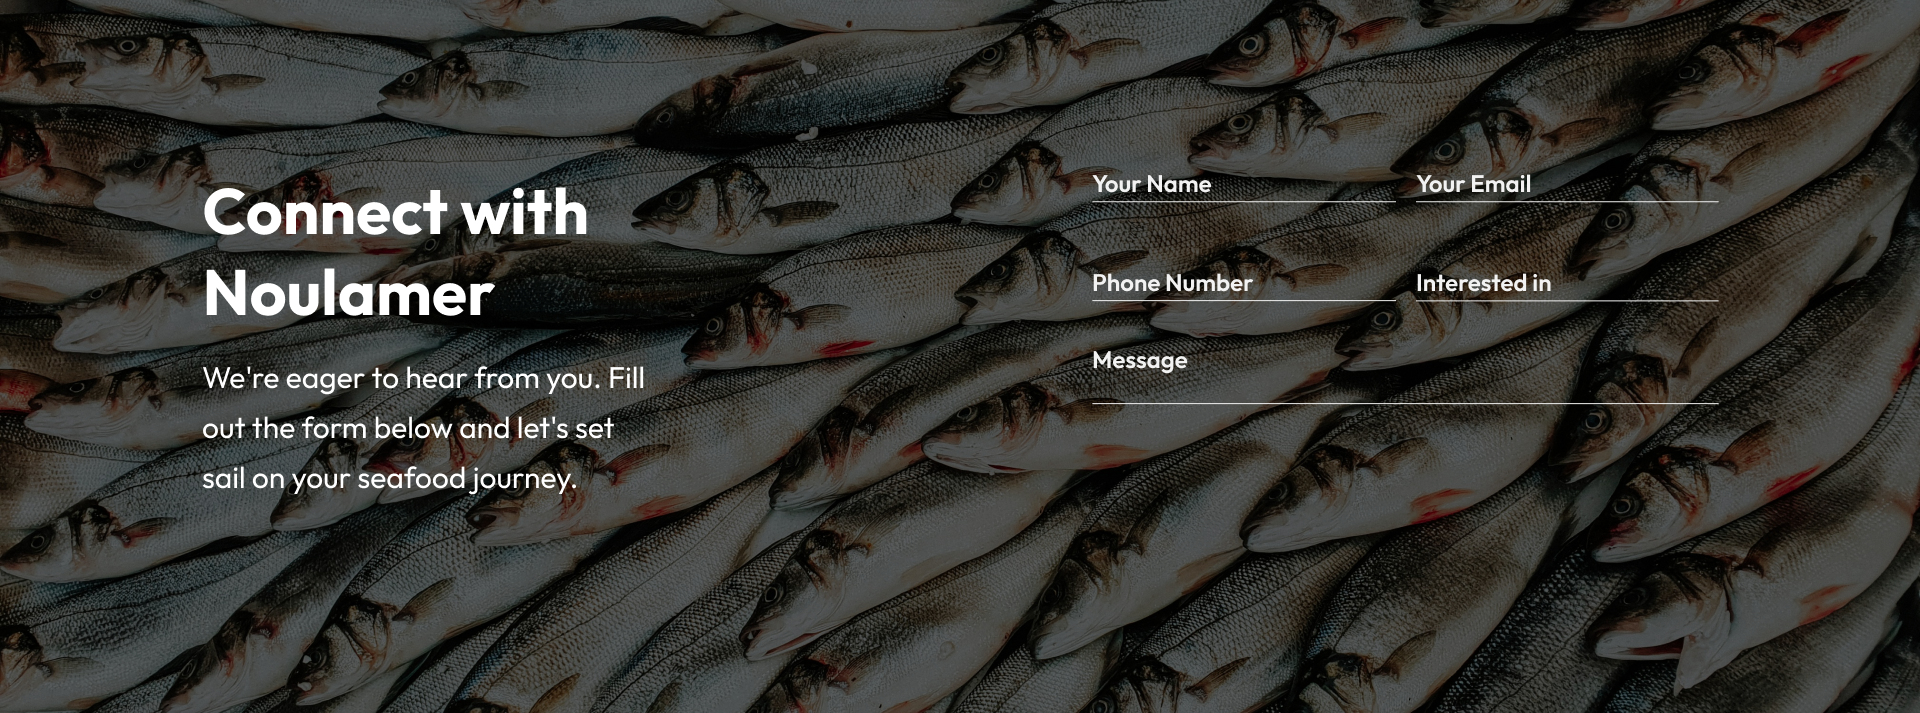
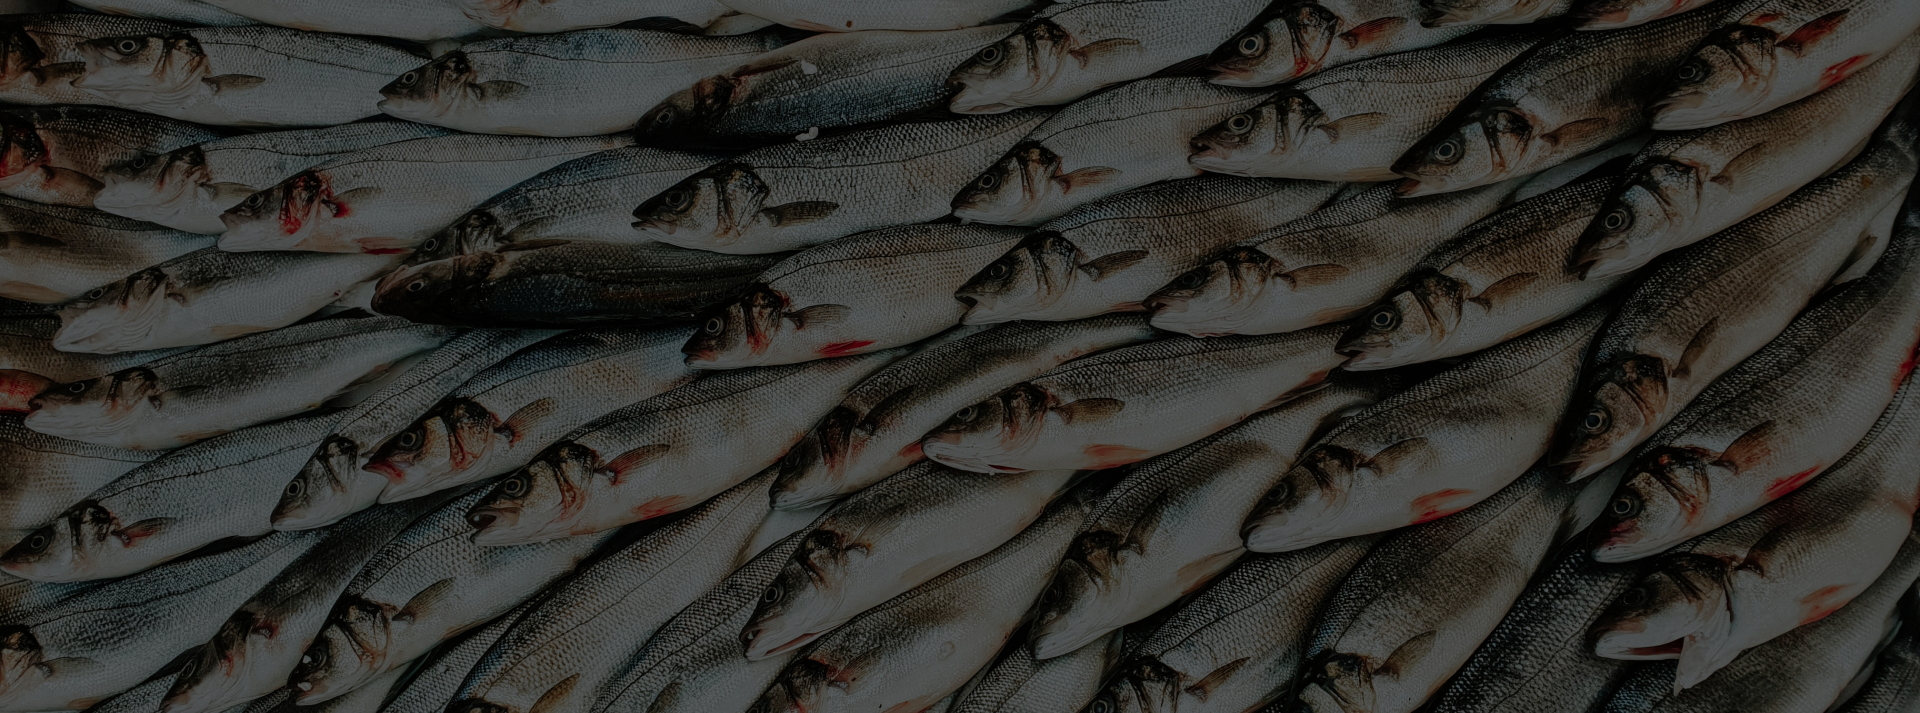
completed connect.jsx

diff --git a/src/components/Home/Traditions.jsx b/src/components/Home/Traditions.jsx
@@ -18,9 +18,9 @@ const Traditions = () => {
                             on Ocean Traditions</h1>
                         <div className='flex flex-col gap-y-4'>
                             <p className='text-[19px] font-[400] text-[#1E1E1E] leading-tight'>
-                                At Noulamer, we blend time-honored techniques with contemporary tastes to provide you with an unparalleled seafood experience. Our seasoned experts are continuously honing their craft to handpick the finest offerings from the sea. It’s more than a purchase; it’s a personal journey into the heart of Mauritian culinary heritage.
+                                At Noulamer, we blend time-honored techniques with contemporary tastes to provide you with an unparalleled seafood experience. Our seasoned experts are continuously honing their craft to handpick the finest offerings from the sea. It&apos;s more than a purchase; it&apos;s a personal journey into the heart of Mauritian culinary heritage.
                             </p>
-                            <p className='text-[19px] font-[400] text-[#1E1E1E] leading-tight'>Within our marketplace, we’re more than vendors; we’re storytellers, custodians of a rich maritime legacy. Our stall is a treasure trove of oceanic gems, waiting to be part of your next culinary adventure. And for those who value sustainability, our eco-conscious packaging ensures that your choice at Noulamer is one you can feel good about.</p>
+                            <p className='text-[19px] font-[400] text-[#1E1E1E] leading-tight'>Within our marketplace, we&apos;re more than vendors; we&apos;re storytellers, custodians of a rich maritime legacy. Our stall is a treasure trove of oceanic gems, waiting to be part of your next culinary adventure. And for those who value sustainability, our eco-conscious packaging ensures that your choice at Noulamer is one you can feel good about.</p>
                             <p className='text-[19px] font-[400] text-[#1E1E1E] leading-tight'>Embrace the true taste of Mauritius. Let Noulamer be the gateway to creating unforgettable meals and memories, one dish at a time.&#x22;</p>
                         </div>
 

diff --git a/src/components/Home/Connect.jsx b/src/components/Home/Connect.jsx
@@ -1,0 +1,29 @@
+import React from 'react'
+import connectImg from '/connect.png';
+const Connect = () => {
+    return (
+        <div className='w-full h-[570px]' style={{ backgroundImage: `url('${connectImg}')`, backgroundRepeat: 'no-repeat', backgroundSize: 'cover', objectFit: 'cover' }}>
+            <div className='w-full flex '>
+                <div className='w-[80%] h-full px-4 py-32 gap-64  mx-auto max-w-[1300px] flex '>
+                    <div className='w-[45%] flex flex-col justify-center gap-6'>
+                        <h1 className='text-5xl leading-tight  text-[#FFFFFF] font-[700]'>Connect with Noulamer</h1>
+                        <p className='text-[#FFFFFF] text-[24px] font-[400] leading-relaxed'>We&apos;re eager to hear from you. Fill out the form below and let&apos;s set sail on your seafood journey.</p>
+                    </div>
+                    <div className='w-[55%] flex flex-col gap-y-10' >
+                        <div className='flex gap-x-10'>
+                            <h1 className='text-[#FFFFFF] w-[250px] border-b border-[#F2F2F2] text-[19px] font-[500]'>Your Name</h1>
+                            <h1 className='text-[#FFFFFF] w-[250px] border-b border-[#F2F2F2] text-[20px] font-[500]'>Your Email</h1>
+                        </div>
+                        <div className='flex gap-x-10'>
+                            <h1 className='text-[#FFFFFF] w-[250px] border-b border-[#F2F2F2] text-[19px] font-[500]'>Phone Number</h1>
+                            <h1 className='text-[#FFFFFF] w-[250px] border-b border-[#F2F2F2] text-[19px] font-[500]'>Interested In</h1>
+                        </div>
+                        <h1 className='text-[#FFFFFF] border-b pb-4 border-[#F2F2F2] text-[19px] font-[500]'>Message</h1>
+                    </div>
+                </div>
+            </div>
+        </div>
+    )
+}
+
+export default Connect

diff --git a/src/components/Home/Process.jsx b/src/components/Home/Process.jsx
@@ -27,7 +27,7 @@ const Process = () => {
                             <p className='text-[19px] font-[400] text-[#1E1E1E] leading-tight'>
                                 Step into the world of Noulamer and witness the meticulous journey of our seafood. From the pristine waters along the South Coast, through our state-of-the-art processing facilities, to your plate, we ensure every scale and shell meets our rigorous standards.
                             </p>
-                            <p className='text-[19px] font-[400] text-[#1E1E1E] leading-tight'>Our facilities are designed to maintain the ocean's freshness, featuring:</p>
+                            <p className='text-[19px] font-[400] text-[#1E1E1E] leading-tight'>Our facilities are designed to maintain the ocean&apos;s freshness, featuring:</p>
                         </div>
                         <ul className='flex gap-x-8 mt-8'>
                             <div className='flex flex-col gap-y-4 justify-between'>

diff --git a/src/components/Home/GetInTouch.jsx b/src/components/Home/GetInTouch.jsx
@@ -10,7 +10,7 @@ import { IoLocationOutline } from "react-icons/io5";
 const GetInTouch = () => {
     return (
         <div className='w-full'>
-            <div className='w-[80%]  max-w-[1300px] py-8 my-12 mx-auto'>
+            <div className='w-[80%]  max-w-[1300px] pt-8 pb-24 my-12 mx-auto'>
                 <div className='flex gap-16'>
                     <div className='relative w-[55%]'>
                         <div className='absolute left-[-65px] bottom-[-80px]'>

diff --git a/src/components/Home/Home.jsx b/src/components/Home/Home.jsx
@@ -6,6 +6,8 @@ import Process from './Process';
 import Traditions from './Traditions';
 import Cta from './Cta';
 import GetInTouch from './GetInTouch';
+import Connect from './Connect';
+
 
 const description1 = `Experience Ocean Freshness,`;
 const description2 = `Handpicked by Noulamer`;
@@ -21,6 +23,7 @@ const Home = () => {
       <Traditions/>
       <Cta/>
       <GetInTouch/>
+      <Connect/>
     </div>
   )
 }
